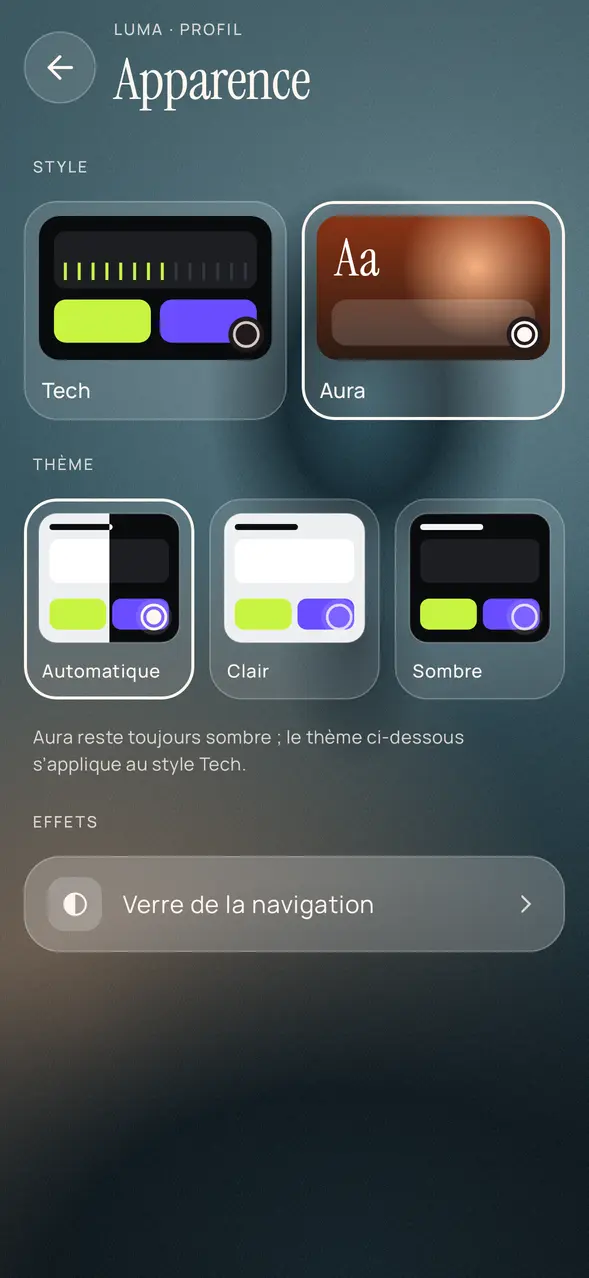
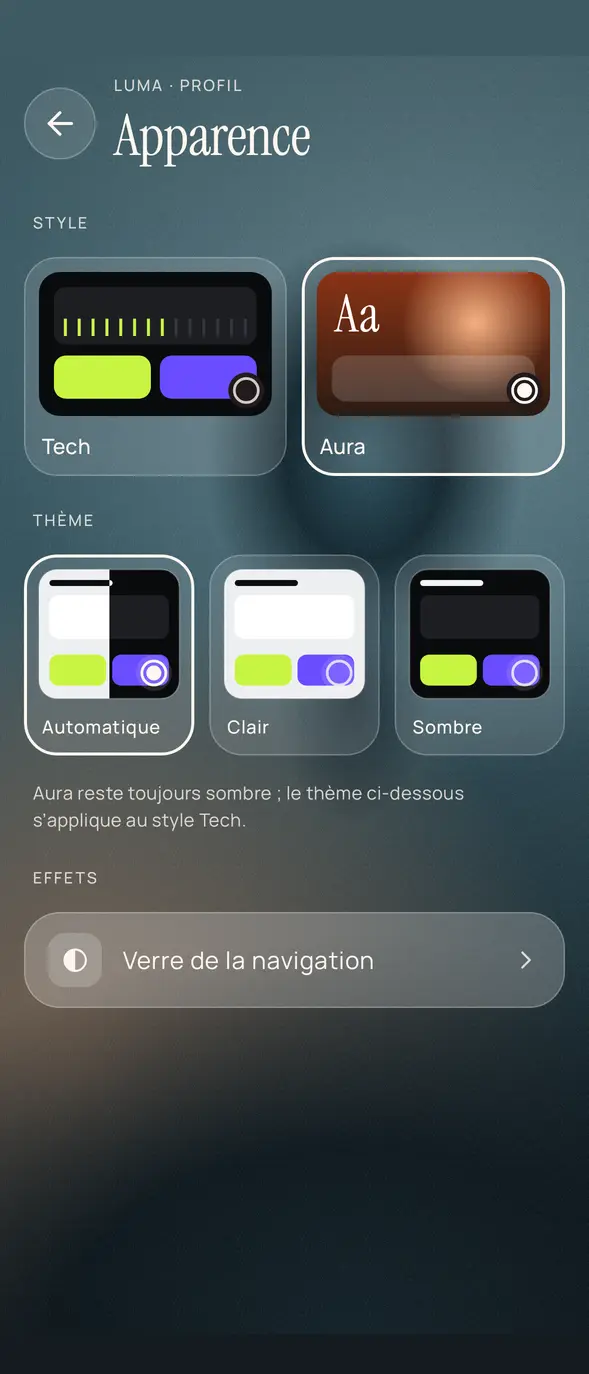
Laisser de la marge en haut des captures pour que les coins arrondis ne coupent pas le texte
Claude-Session: https://claude.ai/code/session_01YMWM2Fj2J3vZqu72BWU4Gv

diff --git a/index.html b/index.html
@@ -56,7 +56,7 @@
             <path class="arc" d="M300 30 A270 270 0 1 1 30 300"/>
             <g class="spin"><circle class="dot" cx="300" cy="30" r="6"/></g>
           </svg>
-          <div class="phone"><img src="assets/img/aura-accueil-fr.webp" alt="Accueil de Luma en style Aura : 1 h 42 de temps d’écran aujourd’hui, 1 h 18 encore disponibles" width="589" height="1278" fetchpriority="high"></div>
+          <div class="phone"><img src="assets/img/aura-accueil-fr.webp" alt="Accueil de Luma en style Aura : 1 h 42 de temps d’écran aujourd’hui, 1 h 18 encore disponibles" width="589" height="1374" fetchpriority="high"></div>
           <div class="float glass f1" aria-hidden="true"><span class="label">Objectif</span><b>3 h par jour</b></div>
           <div class="float glass f2" aria-hidden="true"><span class="label">Série</span><b>12 jours</b></div>
           <div class="float glass f3" aria-hidden="true"><span class="label">Instagram</span><b>En pause · 9 s</b></div>
@@ -87,9 +87,9 @@
           </ol>
           <div class="sticky-phone">
             <div class="phone stack">
-              <img class="on" src="assets/img/accueil-aura-barre.webp" alt="Accueil : le temps restant sur l’objectif du jour" width="589" height="1278" loading="lazy">
-              <img src="assets/img/pause-friction-aura.webp" alt="Page de pause avec un compte à rebours de 9 secondes" width="589" height="1278" loading="lazy">
-              <img src="assets/img/pause-blocage-aura.webp" alt="Page de blocage : Instagram est en pause" width="589" height="1278" loading="lazy">
+              <img class="on" src="assets/img/accueil-aura-barre.webp" alt="Accueil : le temps restant sur l’objectif du jour" width="589" height="1374" loading="lazy">
+              <img src="assets/img/pause-friction-aura.webp" alt="Page de pause avec un compte à rebours de 9 secondes" width="589" height="1374" loading="lazy">
+              <img src="assets/img/pause-blocage-aura.webp" alt="Page de blocage : Instagram est en pause" width="589" height="1374" loading="lazy">
             </div>
           </div>
         </div>
@@ -118,7 +118,7 @@
           <p class="note">Le téléphone, les messages, l’appareil photo et les alarmes ne sont jamais bloqués.</p>
         </div>
         <div class="reveal">
-          <div class="phone"><img src="assets/img/aura-regles-fr.webp" alt="Liste des règles en style Aura : Soirée sans réseaux, de 20:00 à 23:00, avec sa frise de 24 heures" width="589" height="1278" loading="lazy"></div>
+          <div class="phone"><img src="assets/img/aura-regles-fr.webp" alt="Liste des règles en style Aura : Soirée sans réseaux, de 20:00 à 23:00, avec sa frise de 24 heures" width="589" height="1374" loading="lazy"></div>
         </div>
       </div>
     </section>
@@ -132,17 +132,17 @@
       </div>
       <div class="marquee" aria-label="Captures de l’application">
         <div class="marquee-track">
-          <div class="phone"><img src="assets/img/accueil-aura-barre.webp" alt="Accueil" width="589" height="1278" loading="lazy"></div>
-          <div class="phone"><img src="assets/img/aura-profil-fr.webp" alt="Profil" width="589" height="1278" loading="lazy"></div>
-          <div class="phone"><img src="assets/img/aura-personnaliser-fr.webp" alt="Personnaliser l’accueil" width="589" height="1278" loading="lazy"></div>
-          <div class="phone"><img src="assets/img/aura-parametres-fr.webp" alt="Paramètres" width="589" height="1278" loading="lazy"></div>
-          <div class="phone"><img src="assets/img/aura-apparence-fr.webp" alt="Apparence" width="589" height="1278" loading="lazy"></div>
+          <div class="phone"><img src="assets/img/accueil-aura-barre.webp" alt="Accueil" width="589" height="1374" loading="lazy"></div>
+          <div class="phone"><img src="assets/img/aura-profil-fr.webp" alt="Profil" width="589" height="1374" loading="lazy"></div>
+          <div class="phone"><img src="assets/img/aura-personnaliser-fr.webp" alt="Personnaliser l’accueil" width="589" height="1374" loading="lazy"></div>
+          <div class="phone"><img src="assets/img/aura-parametres-fr.webp" alt="Paramètres" width="589" height="1374" loading="lazy"></div>
+          <div class="phone"><img src="assets/img/aura-apparence-fr.webp" alt="Apparence" width="589" height="1374" loading="lazy"></div>
           <!-- Copie pour une boucle continue -->
-          <div class="phone" aria-hidden="true"><img src="assets/img/accueil-aura-barre.webp" alt="" width="589" height="1278" loading="lazy"></div>
-          <div class="phone" aria-hidden="true"><img src="assets/img/aura-profil-fr.webp" alt="" width="589" height="1278" loading="lazy"></div>
-          <div class="phone" aria-hidden="true"><img src="assets/img/aura-personnaliser-fr.webp" alt="" width="589" height="1278" loading="lazy"></div>
-          <div class="phone" aria-hidden="true"><img src="assets/img/aura-parametres-fr.webp" alt="" width="589" height="1278" loading="lazy"></div>
-          <div class="phone" aria-hidden="true"><img src="assets/img/aura-apparence-fr.webp" alt="" width="589" height="1278" loading="lazy"></div>
+          <div class="phone" aria-hidden="true"><img src="assets/img/accueil-aura-barre.webp" alt="" width="589" height="1374" loading="lazy"></div>
+          <div class="phone" aria-hidden="true"><img src="assets/img/aura-profil-fr.webp" alt="" width="589" height="1374" loading="lazy"></div>
+          <div class="phone" aria-hidden="true"><img src="assets/img/aura-personnaliser-fr.webp" alt="" width="589" height="1374" loading="lazy"></div>
+          <div class="phone" aria-hidden="true"><img src="assets/img/aura-parametres-fr.webp" alt="" width="589" height="1374" loading="lazy"></div>
+          <div class="phone" aria-hidden="true"><img src="assets/img/aura-apparence-fr.webp" alt="" width="589" height="1374" loading="lazy"></div>
         </div>
       </div>
     </section>

diff --git a/assets/css/style.css b/assets/css/style.css
@@ -158,7 +158,7 @@ p { margin: 0; }
 @keyframes spin { to { transform: rotate(360deg); } }
 
 .phone {
-  position: relative; width: min(280px, 62vw); aspect-ratio: 589 / 1278;
+  position: relative; width: min(280px, 62vw); aspect-ratio: 589 / 1374;
   border-radius: 46px; padding: 9px;
   background: rgba(255, 246, 239, .08); border: 1px solid var(--glass-line);
   backdrop-filter: blur(20px); -webkit-backdrop-filter: blur(20px);
